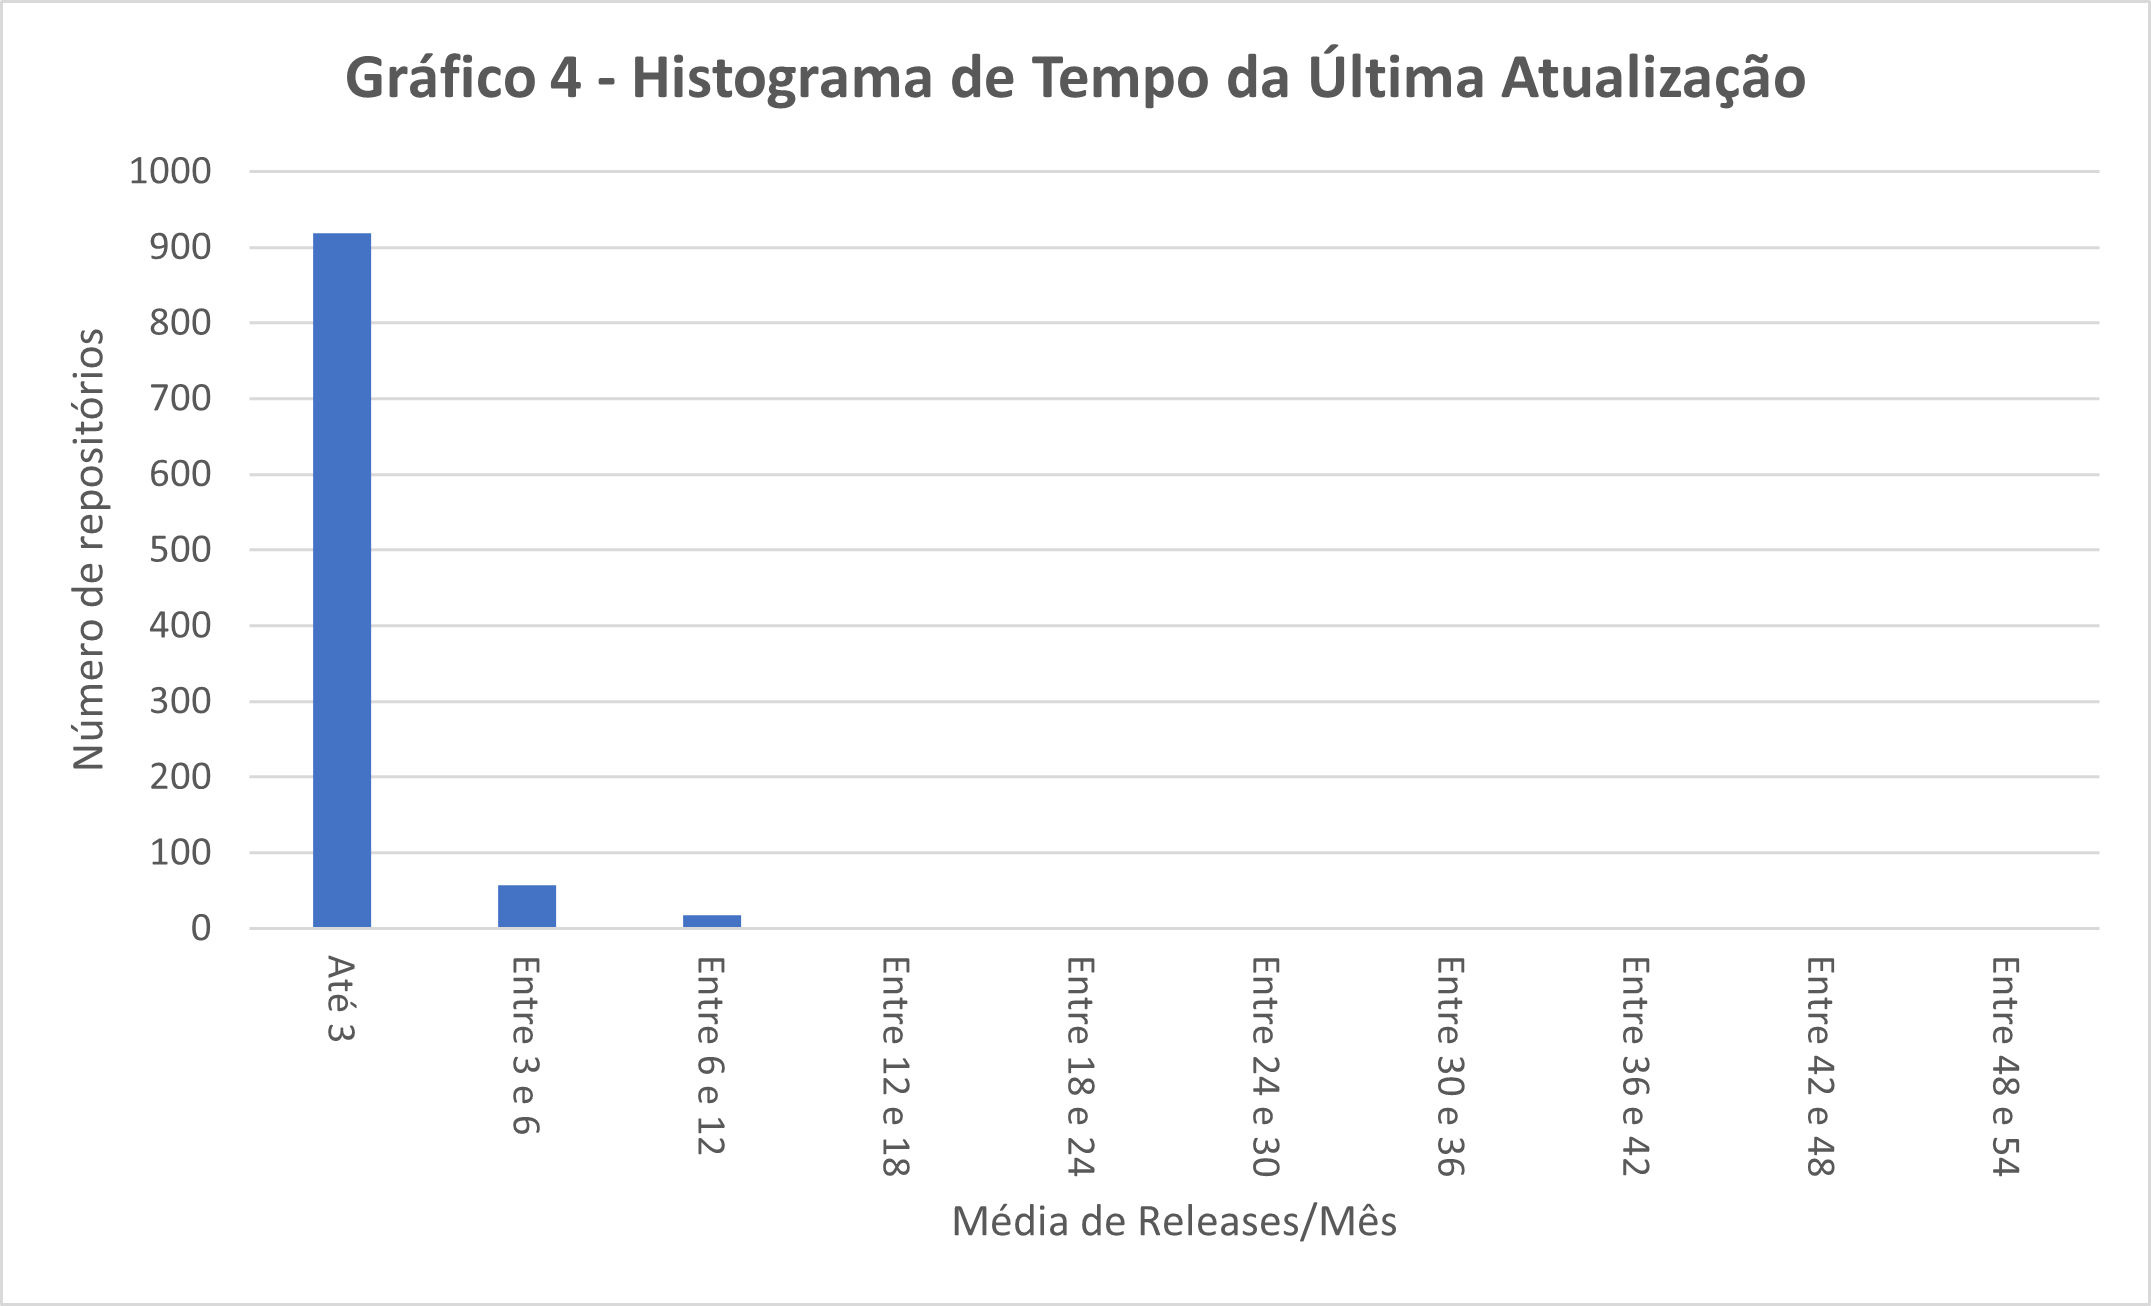
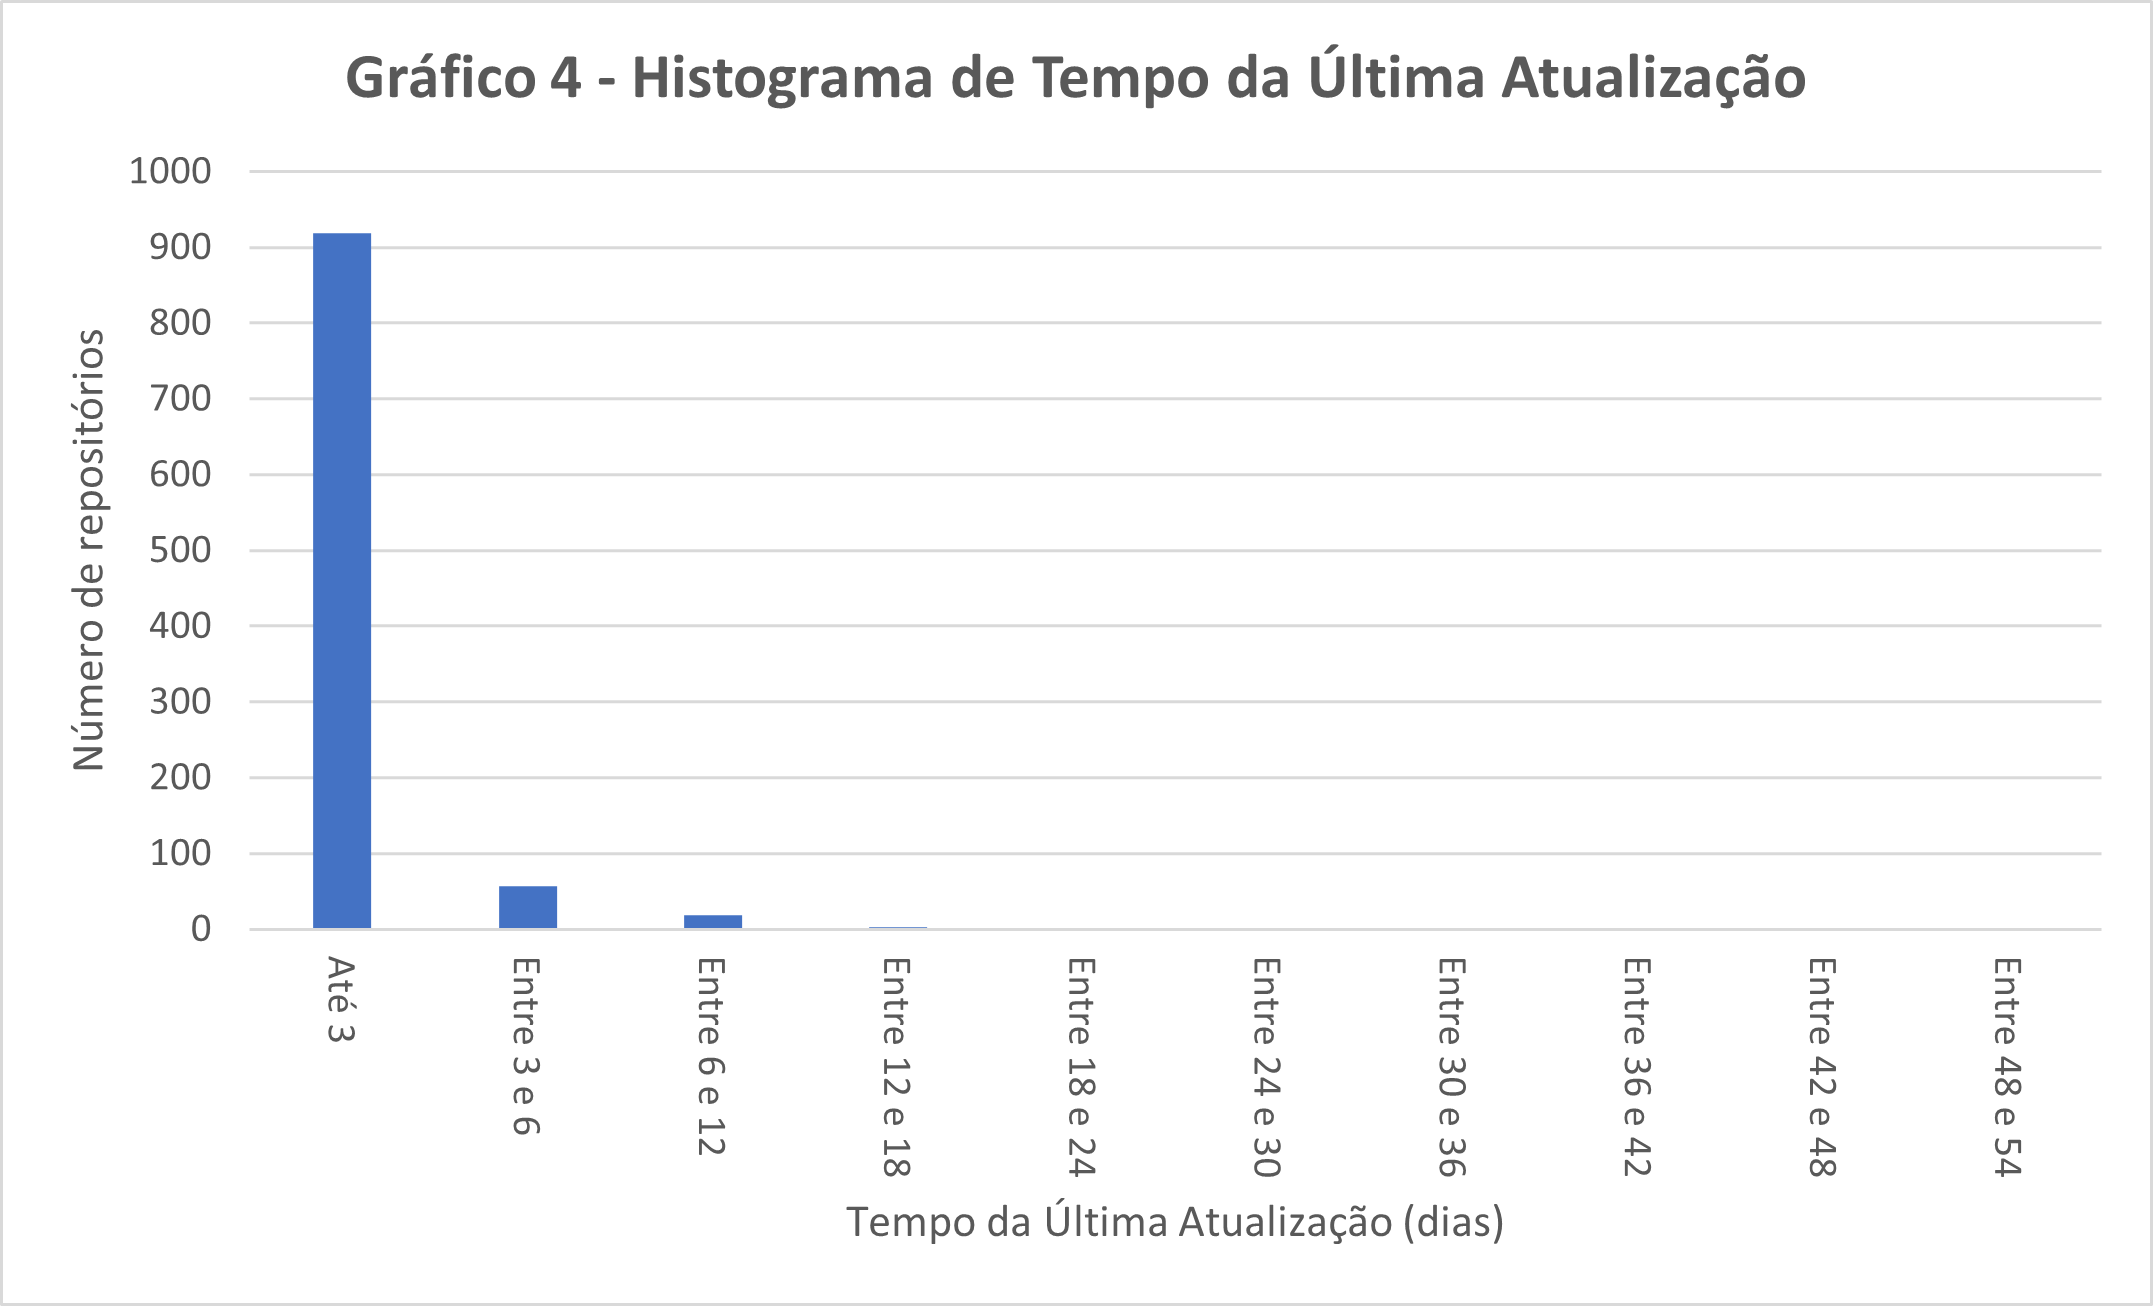
Adição dos resultados e correção de alguns gráficos

diff --git a/Relatório.md b/Relatório.md
@@ -67,6 +67,12 @@ Ao final da execução do script, é salvo um csv com os dados do projeto e são
 
 # 4. Resultados
 
+Após a coleta dos dados pela API do GitHub obtem-se:
+
+## **4.1. RQ 01**
+
+690 repositórios populares possuem idade maior que 5 anos, essa parcela representa 69% do total. Os repositórios possuem em média 7 anos e mediana das idades é também 7 anos, indicando que a maior densidade das idades se encontra por volta desse valor - ver Figura 1.
+
 ![Figura 1 - Histograma de Idade dos Repositórios](graficos/grafico-rq1.png "Figura 1 - Histograma de Idade dos Repositórios")
 
 **Figura 1 - Histograma de Idade dos Repositórios**
@@ -74,6 +80,11 @@ Ao final da execução do script, é salvo um csv com os dados do projeto e são
 ![Tabela 1 - Histograma de Idade dos Repositórios](tabelas/tabela-rq1.jpg "Tabela 1 - Histograma de Idade dos Repositórios")
 
 **Tabela 1 - Histograma de Idade dos Repositórios**
+<br></br>
+
+## **4.2. RQ 02**
+
+Em relação as contribuições externas, 949 repositórios possuem até 15 mil pull requests, vide Figura 2 e Tabela 2. A mediana dos valores é de 811 pull requests, indicando que 50% dos repositórios tem 811 ou menos contribuições externas aceitas e corroborando com a distribuição do histograma abaixo. A média é de 3569 pull requests por repositório.
 
 ![Figura 2 - Histograma de Idade dos Repositórios](graficos/grafico-rq2.png "Figura 2 - Histograma de Idade dos Repositórios")
 
@@ -82,6 +93,11 @@ Ao final da execução do script, é salvo um csv com os dados do projeto e são
 ![Tabela 2 - Histograma de Idade dos Repositórios](tabelas/tabela-rq2.jpg "Tabela 2 - Histograma de Idade dos Repositórios")
 
 **Tabela 2 - Histograma de Idade dos Repositórios**
+<br></br>
+
+## **4.3. RQ 03**
+
+Analisando a Tabela 3, é possível perceber que 976 repositórios tem a média de 6 releases por mês, porém a mediana dos valores é de 0,2249, indicando que 50% dos valores são iguais ou menores do que 0,2249. A média se encontra de certa forma próxima a esse valor, sendo 1,0274 releases/mês/repositório, o que mostra que poucos outros repositórios extrapolam o valor da mediana.
 
 ![Figura 3 - Histograma de Idade dos Repositórios](graficos/grafico-rq3.png "Figura 3 - Histograma de Idade dos Repositórios")
 
@@ -90,6 +106,11 @@ Ao final da execução do script, é salvo um csv com os dados do projeto e são
 ![Tabela 3 - Histograma de Idade dos Repositórios](tabelas/tabela-rq3.jpg "Tabela 3 - Histograma de Idade dos Repositórios")
 
 **Tabela 3 - Histograma de Idade dos Repositórioss**
+<br></br>
+
+## **4.4. RQ 04**
+
+Observa-se no Gráfico 4 que grande parte dos repositórios tem até 3 dias da última atualização. Detalhando os valores obtidos, obtem-se a média de 2,4121 dias de tempo atualização e uma mediana de 1,2187, indicando que aproximadamente 50% dos repositórios tiverem atualização no dia anterior.
 
 ![Figura 4 - Histograma de Idade dos Repositórios](graficos/grafico-rq4.png "Figura 4 - Histograma de Idade dos Repositórios")
 
@@ -98,10 +119,20 @@ Ao final da execução do script, é salvo um csv com os dados do projeto e são
 ![Tabela 4 - Histograma de Idade dos Repositórios](tabelas/tabela-rq4.jpg "Tabela 4 - Histograma de Idade dos Repositórios")
 
 **Tabela 4 - Histograma de Idade dos Repositórios**
+<br></br>
+
+## **4.5. RQ 05**
+
+A tabela abaixo mostra as 10 linguagens mais populares de 2022 e quantos repositórios da coleta utilizam elas como linguagem principal. No total, 652 repositórios se encaixam, representando 65,2% de todos os repositórios coletados.
 
 ![Tabela 5 - Histograma de Idade dos Repositórios](tabelas/tabela-rq5.jpg "Tabela 5 - Histograma de Idade dos Repositórios")
 
 **Tabela 5 - Histograma de Idade dos Repositórios**
+<br></br>
+
+## **4.6. RQ 06**
+
+Observa-se na Figura 6 e na Tabela 6 que grande parte dos repositórios possuem mais de 50% de issues fechadas. A mediana desses valores é de 85,99%, indicando que 50% dos repositórios possuem quase a totatalidade de issues como issues fechadas. A média das porcentagens é de 76,78%, corroborando com a concentração mostrada no gráfico.
 
 ![Figura 6 - Histograma de Idade dos Repositórios](graficos/grafico-rq6.png "Figura 6 - Histograma de Idade dos Repositórios")
 
